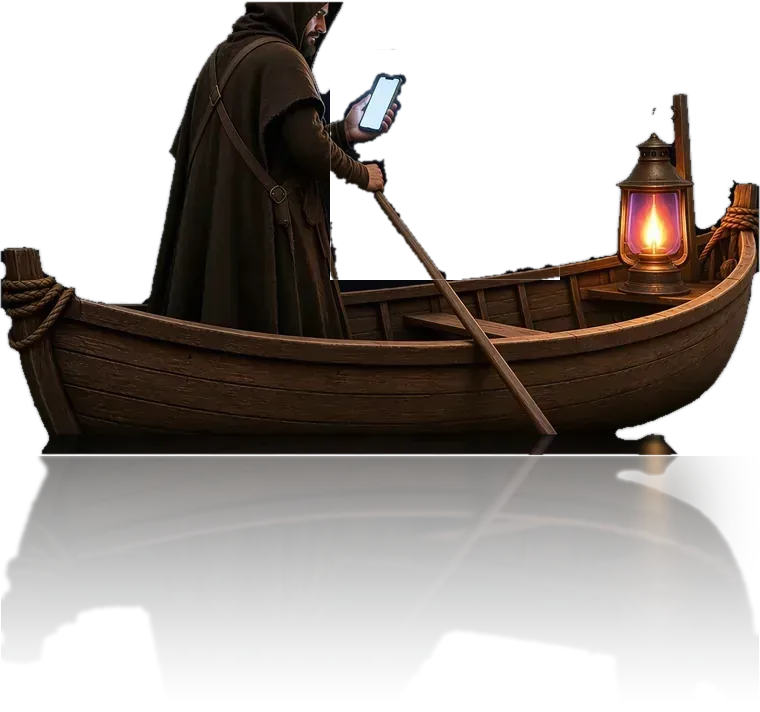
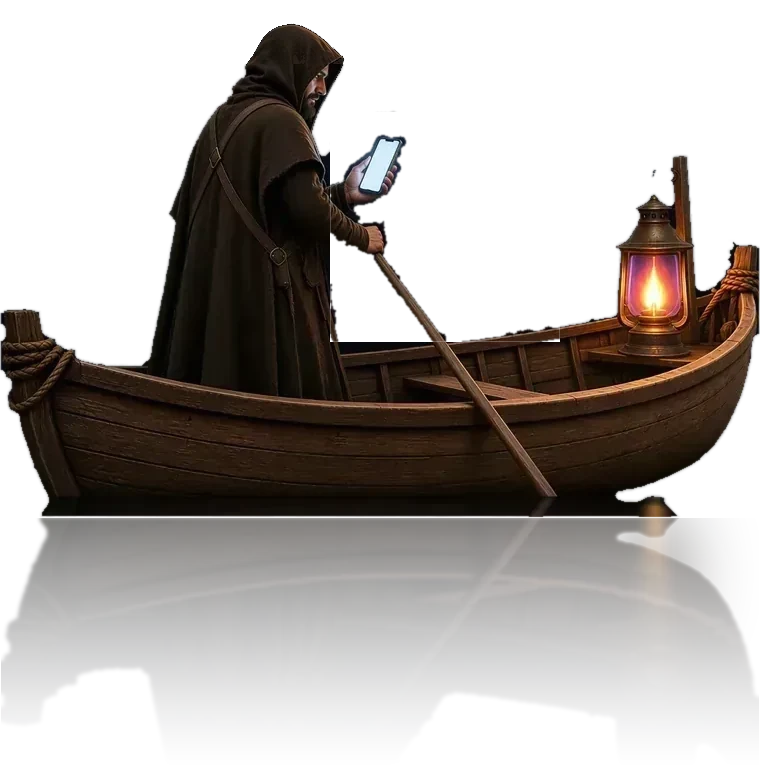
Site

diff --git a/index.html b/index.html
@@ -31,7 +31,7 @@
 <link rel="manifest" href="site.webmanifest">
 <link rel="stylesheet" href="assets/home/home.css">
 <link rel="stylesheet" href="assets/home/home-v2.css?v=20261123t1">
-<link rel="stylesheet" href="assets/home/travessia.css?v=20261123barca"><link rel="preload" as="image" href="img/cenas/prot-v.webp" imagesrcset="img/cenas/prot-v480.webp 480w, img/cenas/prot-v.webp 720w" imagesizes="57svh" media="(max-aspect-ratio: 4/5)" fetchpriority="high"><link rel="preload" as="image" href="img/cenas/prot-h.webp" media="(min-aspect-ratio: 4/5)">
+<link rel="stylesheet" href="assets/home/travessia.css?v=20261123ceu"><link rel="preload" as="image" href="img/cenas/prot-v.webp" imagesrcset="img/cenas/prot-v480.webp 480w, img/cenas/prot-v.webp 720w" imagesizes="57svh" media="(max-aspect-ratio: 4/5)" fetchpriority="high"><link rel="preload" as="image" href="img/cenas/prot-h.webp" media="(min-aspect-ratio: 4/5)">
 <script>document.documentElement.classList.add('js')</script>
 <script type="application/ld+json" data-seo="1">
 {"@context":"https://schema.org","@graph":[{"@type":["Attorney","LegalService"],"@id":"https://lucasladeia.com.br/#advogado","name":"Lucas Brito Ladeia","alternateName":"Lucas Ladeia","url":"https://lucasladeia.com.br/","image":"https://lucasladeia.com.br/og-lucas-ladeia-2026-11.jpg","logo":"https://lucasladeia.com.br/icon-512.png","description":"Advocacia em medida protetiva, criminal, família e CAC. Imperatriz-MA, com atendimento presencial e online. OAB/MA 16.091.","identifier":{"@type":"PropertyValue","propertyID":"OAB/MA","value":"16.091"},"telephone":"+55 99 98170-3994","address":{"@type":"PostalAddress","streetAddress":"Rua Coronel Manoel Bandeira, 1774, Centro","addressLocality":"Imperatriz","addressRegion":"MA","postalCode":"65900-010","addressCountry":"BR"},"areaServed":[{"@type":"City","name":"Imperatriz","containedInPlace":{"@type":"State","name":"Maranhão"}},{"@type":"Country","name":"Brasil"}],"knowsAbout":["Medida protetiva de urgência","Lei Maria da Penha","Direito penal","Direito de família","Armas de fogo e CAC"],"sameAs":["https://www.instagram.com/lucasladeiadvogado/","https://www.instagram.com/ladeiadvogadosfamilia/","https://www.instagram.com/rededeprotecaoficial/"]},{"@type":"WebSite","@id":"https://lucasladeia.com.br/#site","url":"https://lucasladeia.com.br/","name":"Rede de Proteção · Lucas Brito Ladeia","inLanguage":"pt-BR","publisher":{"@id":"https://lucasladeia.com.br/#advogado"}},{"@type":"FAQPage","@id":"https://lucasladeia.com.br/#faq","mainEntity":[{"@type":"Question","name":"O atendimento é só em Imperatriz?","acceptedAnswer":{"@type":"Answer","text":"O escritório fica em Imperatriz-MA, com atendimento presencial. Também há atendimento online para pessoas em outras cidades do Brasil, conforme a natureza do caso."}},{"@type":"Question","name":"Preciso contar o caso inteiro por escrito?","acceptedAnswer":{"@type":"Answer","text":"Não. Na primeira mensagem, basta indicar a área e o essencial. Detalhes sensíveis ficam para o atendimento, sob sigilo profissional."}},{"@type":"Question","name":"Vocês prometem resultado?","acceptedAnswer":{"@type":"Answer","text":"Não. A publicidade da advocacia é informativa. Cada caso depende dos fatos, das provas e da decisão judicial."}},{"@type":"Question","name":"Como envio uma mensagem?","acceptedAnswer":{"@type":"Answer","text":"Use o botão de conversa nesta página. Informe a área de interesse para agilizar a triagem."}}]}]}
@@ -124,7 +124,7 @@
     <div class="firmamento" aria-hidden="true"><canvas class="cosmos" width="1" height="1"></canvas><i class="cintila c1"></i><i class="cintila c2"></i><i class="meteoro"></i></div><div class="trilho"><div class="cena on" data-id="prot" data-t="Medida Protetiva" data-d="Pedido, defesa, prazos e os filhos" data-href="medida-protetiva/" data-acao="Limpar o vidro"><picture><source media="(min-aspect-ratio: 4/5)" srcset="img/cenas/prot-h.webp"><img src="img/cenas/prot-v.webp" srcset="img/cenas/prot-v480.webp 480w, img/cenas/prot-v.webp 720w" sizes="57svh" width="720" height="1280" alt="" fetchpriority="high"></picture></div><div class="cena" data-id="crim" data-t="Direito Criminal" data-d="Intimação, depoimento, acusação e prova" data-href="criminal/" data-acao="Limpar o vidro"><picture><source media="(min-aspect-ratio: 4/5)" data-srcset="img/cenas/crim-h.webp"><img data-srcset="img/cenas/crim-v480.webp 480w, img/cenas/crim-v.webp 720w" sizes="57svh" width="720" height="1280" alt="" decoding="async"></picture></div><div class="cena" data-id="fam" data-t="Casa da Família" data-d="Separação, guarda, pensão e partilha de bens" data-href="familia/" data-acao="Acender as janelas"><picture><source media="(min-aspect-ratio: 4/5)" data-srcset="img/cenas/fam-h.webp"><img data-srcset="img/cenas/fam-v480.webp 480w, img/cenas/fam-v.webp 720w" sizes="57svh" width="720" height="1280" alt="" decoding="async"></picture></div><div class="cena" data-id="con" data-t="Conexão" data-d="As emoções de quem atravessa um conflito" data-href="conexao/" data-acao="Fonte da Vida" data-link="conexao/#fonte-vida"><picture><source media="(min-aspect-ratio: 4/5)" data-srcset="img/cenas/con-h.webp"><img data-srcset="img/cenas/con-v480.webp 480w, img/cenas/con-v.webp 720w" sizes="57svh" width="720" height="1280" alt="" decoding="async"></picture></div><div class="cena" data-id="arq" data-t="Arquivo do Baú" data-d="Todos os textos guardados num só lugar" data-href="artigos/" data-acao="Puxar um livro"><picture><source media="(min-aspect-ratio: 4/5)" data-srcset="img/cenas/arq-h.webp"><img data-srcset="img/cenas/arq-v480.webp 480w, img/cenas/arq-v.webp 720w" sizes="57svh" width="720" height="1280" alt="" decoding="async"></picture></div><div class="cena" data-id="ter" data-t="Consumidor" data-d="Direitos do consumidor e do passageiro" data-href="https://consumidor.lucasladeia.com.br/" data-acao="Painel de partidas"><picture><source media="(min-aspect-ratio: 4/5)" data-srcset="img/cenas/ter-h.webp"><img data-srcset="img/cenas/ter-v480.webp 480w, img/cenas/ter-v.webp 720w" sizes="57svh" width="720" height="1280" alt="" decoding="async"></picture></div></div><div class="agua" aria-hidden="true"><i></i></div>
     <div class="lua" aria-hidden="true"><canvas width="1" height="1"></canvas></div><svg class="constelacao" viewBox="0 0 122 60" aria-hidden="true" focusable="false"><g class="cl"><line x1="8" y1="42" x2="28" y2="18" data-a="prot" data-b="crim"/><line x1="28" y1="18" x2="48" y2="38" data-a="crim" data-b="fam"/><line x1="48" y1="38" x2="70" y2="26" data-a="fam" data-b="con"/><line x1="70" y1="26" x2="92" y2="10" data-a="con" data-b="arq"/><line x1="92" y1="10" x2="114" y2="36" data-a="arq" data-b="ter"/></g><g class="est" data-id="prot" transform="translate(8 42)"><circle class="eg" r="7"/><path d="M0 -4.5 L1 -1 L4.5 0 L1 1 L0 4.5 L-1 1 L-4.5 0 L-1 -1Z"/></g><g class="est" data-id="crim" transform="translate(28 18)"><circle class="eg" r="7"/><path d="M0 -4.5 L1 -1 L4.5 0 L1 1 L0 4.5 L-1 1 L-4.5 0 L-1 -1Z"/></g><g class="est" data-id="fam" transform="translate(48 38)"><circle class="eg" r="7"/><path d="M0 -4.5 L1 -1 L4.5 0 L1 1 L0 4.5 L-1 1 L-4.5 0 L-1 -1Z"/></g><g class="est" data-id="con" transform="translate(70 26)"><circle class="eg" r="7"/><path d="M0 -4.5 L1 -1 L4.5 0 L1 1 L0 4.5 L-1 1 L-4.5 0 L-1 -1Z"/></g><g class="est" data-id="arq" transform="translate(92 10)"><circle class="eg" r="7"/><path d="M0 -4.5 L1 -1 L4.5 0 L1 1 L0 4.5 L-1 1 L-4.5 0 L-1 -1Z"/></g><g class="est" data-id="ter" transform="translate(114 36)"><circle class="eg" r="7"/><path d="M0 -4.5 L1 -1 L4.5 0 L1 1 L0 4.5 L-1 1 L-4.5 0 L-1 -1Z"/></g></svg>
     <div class="lua-agua" aria-hidden="true"><u></u><i></i><b></b></div>
-    <div class="barca real" aria-hidden="true"><svg viewBox="0 0 921 864" focusable="false"><defs><radialGradient id="gFacho" cx=".2" cy=".5" r=".8"><stop offset="0" stop-color="#FFE2A0" stop-opacity=".5"/><stop offset=".45" stop-color="#F6C878" stop-opacity=".16"/><stop offset="1" stop-color="#F6C878" stop-opacity="0"/></radialGradient><radialGradient id="gProa"><stop offset="0" stop-color="#FFD58A" stop-opacity=".75"/><stop offset="1" stop-color="#FFD58A" stop-opacity="0"/></radialGradient><radialGradient id="gLcH" cx=".5" cy="0" r="1"><stop offset="0" stop-color="#FFD98F" stop-opacity=".85"/><stop offset=".2" stop-color="#FFC765" stop-opacity=".5"/><stop offset=".36" stop-color="#F5A524" stop-opacity=".16"/><stop offset=".5" stop-color="#F5A524" stop-opacity="0"/></radialGradient><radialGradient id="gLcN" cx=".5" cy="0" r="1"><stop offset="0" stop-color="#FFF6DC" stop-opacity="1"/><stop offset=".22" stop-color="#FFE3A3" stop-opacity=".75"/><stop offset=".4" stop-color="#FFC765" stop-opacity=".25"/><stop offset=".5" stop-color="#FFC765" stop-opacity="0"/></radialGradient><radialGradient id="gHaloV"><stop offset=".45" stop-color="#FFC98A" stop-opacity="0"/><stop offset=".7" stop-color="#FFC98A" stop-opacity=".12"/><stop offset="1" stop-color="#FFB45A" stop-opacity="0"/></radialGradient><radialGradient id="gNucleo"><stop offset="0" stop-color="#FFFFF6" stop-opacity="1"/><stop offset=".35" stop-color="#FFF1C2" stop-opacity=".9"/><stop offset=".7" stop-color="#FFC765" stop-opacity=".35"/><stop offset="1" stop-color="#FFB547" stop-opacity="0"/></radialGradient></defs><ellipse class="facho" cx="1220" cy="560" rx="560" ry="120" fill="url(#gFacho)"/><ellipse class="cone" cx="800" cy="556" rx="400" ry="44" fill="url(#gProa)"/><g class="balanco"><image class="rl" href="img/real/barca3-120.webp?v=20261123cell" data-src="img/real/barca3-760.webp?v=20261123cell" width="922" height="864"/><circle class="halo-v" cx="791" cy="327" r="190" fill="url(#gHaloV)"/><circle class="chama" cx="791" cy="331" r="135" fill="url(#gProa)"/><ellipse class="nucleo" cx="791" cy="333" rx="26" ry="38" fill="url(#gNucleo)"/></g><g class="luz-con"><rect class="lc-h" x="-320" y="546" width="640" height="2000" fill="url(#gLcH)"/><rect class="lc-n" x="-120" y="546" width="240" height="1900" fill="url(#gLcN)"/><g class="lc-b"><ellipse cx="-122" cy="873" rx="44" ry="6.7" style="--d:1.2s"/><ellipse cx="-56" cy="946" rx="40" ry="7.3" style="--d:1.2s"/><ellipse cx="8" cy="968" rx="46" ry="7.5" style="--d:0.2s"/><ellipse cx="-35" cy="1059" rx="70" ry="8.3" style="--d:0.1s"/><ellipse cx="130" cy="1142" rx="75" ry="9.0" style="--d:0.4s"/><ellipse cx="-7" cy="581" rx="19" ry="4.2" style="--d:0.1s"/><ellipse cx="0" cy="717" rx="30" ry="5.3" style="--d:1.1s"/><ellipse cx="20" cy="1075" rx="64" ry="8.4" style="--d:1.5s"/><ellipse cx="-35" cy="899" rx="40" ry="6.9" style="--d:2.4s"/><ellipse cx="-87" cy="1148" rx="86" ry="9.0" style="--d:1.7s"/><ellipse cx="5" cy="794" rx="26" ry="6.0" style="--d:1.8s"/><ellipse cx="44" cy="844" rx="53" ry="6.4" style="--d:0.9s"/><ellipse cx="2" cy="1130" rx="54" ry="8.9" style="--d:2.2s"/><ellipse cx="-2" cy="883" rx="61" ry="6.8" style="--d:1.0s"/><ellipse cx="-32" cy="633" rx="19" ry="4.6" style="--d:0.2s"/><ellipse cx="-62" cy="805" rx="51" ry="6.1" style="--d:1.8s"/><ellipse cx="0" cy="667" rx="18" ry="4.9" style="--d:1.9s"/><ellipse cx="17" cy="708" rx="31" ry="5.3" style="--d:1.1s"/><ellipse cx="-2" cy="717" rx="34" ry="5.3" style="--d:0.3s"/><ellipse cx="-29" cy="855" rx="35" ry="6.5" style="--d:0.6s"/><ellipse cx="25" cy="1137" rx="87" ry="8.9" style="--d:0.5s"/><ellipse cx="-43" cy="840" rx="52" ry="6.4" style="--d:1.5s"/><ellipse cx="21" cy="654" rx="21" ry="4.8" style="--d:1.9s"/><ellipse cx="-2" cy="803" rx="33" ry="6.1" style="--d:0.2s"/><ellipse cx="-19" cy="646" rx="26" ry="4.7" style="--d:0.9s"/><ellipse cx="-21" cy="873" rx="59" ry="6.7" style="--d:1.2s"/><ellipse cx="28" cy="939" rx="38" ry="7.2" style="--d:2.2s"/><ellipse cx="-38" cy="1063" rx="51" ry="8.3" style="--d:0.5s"/><ellipse cx="47" cy="1024" rx="77" ry="8.0" style="--d:2.1s"/><ellipse cx="-16" cy="954" rx="49" ry="7.4" style="--d:0.2s"/><ellipse cx="17" cy="604" rx="24" ry="4.4" style="--d:0.6s"/><ellipse cx="-14" cy="1066" rx="66" ry="8.3" style="--d:0.7s"/><ellipse cx="-3" cy="707" rx="24" ry="5.3" style="--d:1.3s"/><ellipse cx="-31" cy="1080" rx="69" ry="8.4" style="--d:0.7s"/><ellipse cx="5" cy="1111" rx="56" ry="8.7" style="--d:1.1s"/><ellipse cx="5" cy="623" rx="17" ry="4.5" style="--d:0.9s"/><ellipse cx="42" cy="938" rx="65" ry="7.2" style="--d:2.4s"/><ellipse cx="50" cy="982" rx="62" ry="7.6" style="--d:1.4s"/><ellipse cx="6" cy="683" rx="36" ry="5.0" style="--d:1.7s"/><ellipse cx="4" cy="1133" rx="45" ry="8.9" style="--d:1.5s"/><ellipse cx="-6" cy="889" rx="63" ry="6.8" style="--d:0.2s"/><ellipse cx="-56" cy="924" rx="58" ry="7.1" style="--d:2.2s"/></g></g></svg></div>
+    <div class="barca real" aria-hidden="true"><svg viewBox="0 0 921 864" focusable="false"><defs><radialGradient id="gFacho" cx=".2" cy=".5" r=".8"><stop offset="0" stop-color="#FFE2A0" stop-opacity=".5"/><stop offset=".45" stop-color="#F6C878" stop-opacity=".16"/><stop offset="1" stop-color="#F6C878" stop-opacity="0"/></radialGradient><radialGradient id="gProa"><stop offset="0" stop-color="#FFD58A" stop-opacity=".75"/><stop offset="1" stop-color="#FFD58A" stop-opacity="0"/></radialGradient><radialGradient id="gLcH" cx=".5" cy="0" r="1"><stop offset="0" stop-color="#FFD98F" stop-opacity=".85"/><stop offset=".2" stop-color="#FFC765" stop-opacity=".5"/><stop offset=".36" stop-color="#F5A524" stop-opacity=".16"/><stop offset=".5" stop-color="#F5A524" stop-opacity="0"/></radialGradient><radialGradient id="gLcN" cx=".5" cy="0" r="1"><stop offset="0" stop-color="#FFF6DC" stop-opacity="1"/><stop offset=".22" stop-color="#FFE3A3" stop-opacity=".75"/><stop offset=".4" stop-color="#FFC765" stop-opacity=".25"/><stop offset=".5" stop-color="#FFC765" stop-opacity="0"/></radialGradient><radialGradient id="gHaloV"><stop offset=".45" stop-color="#FFC98A" stop-opacity="0"/><stop offset=".7" stop-color="#FFC98A" stop-opacity=".12"/><stop offset="1" stop-color="#FFB45A" stop-opacity="0"/></radialGradient><radialGradient id="gNucleo"><stop offset="0" stop-color="#FFFFF6" stop-opacity="1"/><stop offset=".35" stop-color="#FFF1C2" stop-opacity=".9"/><stop offset=".7" stop-color="#FFC765" stop-opacity=".35"/><stop offset="1" stop-color="#FFB547" stop-opacity="0"/></radialGradient></defs><ellipse class="facho" cx="1220" cy="560" rx="560" ry="120" fill="url(#gFacho)"/><ellipse class="cone" cx="800" cy="556" rx="400" ry="44" fill="url(#gProa)"/><g class="balanco"><image class="rl" href="img/real/barca3-120.webp?v=20261123cap" data-src="img/real/barca3-760.webp?v=20261123cap" y="-75" width="922" height="939"/><circle class="halo-v" cx="791" cy="327" r="190" fill="url(#gHaloV)"/><circle class="chama" cx="791" cy="331" r="135" fill="url(#gProa)"/><ellipse class="nucleo" cx="791" cy="333" rx="26" ry="38" fill="url(#gNucleo)"/></g><g class="luz-con"><rect class="lc-h" x="-320" y="546" width="640" height="2000" fill="url(#gLcH)"/><rect class="lc-n" x="-120" y="546" width="240" height="1900" fill="url(#gLcN)"/><g class="lc-b"><ellipse cx="-122" cy="873" rx="44" ry="6.7" style="--d:1.2s"/><ellipse cx="-56" cy="946" rx="40" ry="7.3" style="--d:1.2s"/><ellipse cx="8" cy="968" rx="46" ry="7.5" style="--d:0.2s"/><ellipse cx="-35" cy="1059" rx="70" ry="8.3" style="--d:0.1s"/><ellipse cx="130" cy="1142" rx="75" ry="9.0" style="--d:0.4s"/><ellipse cx="-7" cy="581" rx="19" ry="4.2" style="--d:0.1s"/><ellipse cx="0" cy="717" rx="30" ry="5.3" style="--d:1.1s"/><ellipse cx="20" cy="1075" rx="64" ry="8.4" style="--d:1.5s"/><ellipse cx="-35" cy="899" rx="40" ry="6.9" style="--d:2.4s"/><ellipse cx="-87" cy="1148" rx="86" ry="9.0" style="--d:1.7s"/><ellipse cx="5" cy="794" rx="26" ry="6.0" style="--d:1.8s"/><ellipse cx="44" cy="844" rx="53" ry="6.4" style="--d:0.9s"/><ellipse cx="2" cy="1130" rx="54" ry="8.9" style="--d:2.2s"/><ellipse cx="-2" cy="883" rx="61" ry="6.8" style="--d:1.0s"/><ellipse cx="-32" cy="633" rx="19" ry="4.6" style="--d:0.2s"/><ellipse cx="-62" cy="805" rx="51" ry="6.1" style="--d:1.8s"/><ellipse cx="0" cy="667" rx="18" ry="4.9" style="--d:1.9s"/><ellipse cx="17" cy="708" rx="31" ry="5.3" style="--d:1.1s"/><ellipse cx="-2" cy="717" rx="34" ry="5.3" style="--d:0.3s"/><ellipse cx="-29" cy="855" rx="35" ry="6.5" style="--d:0.6s"/><ellipse cx="25" cy="1137" rx="87" ry="8.9" style="--d:0.5s"/><ellipse cx="-43" cy="840" rx="52" ry="6.4" style="--d:1.5s"/><ellipse cx="21" cy="654" rx="21" ry="4.8" style="--d:1.9s"/><ellipse cx="-2" cy="803" rx="33" ry="6.1" style="--d:0.2s"/><ellipse cx="-19" cy="646" rx="26" ry="4.7" style="--d:0.9s"/><ellipse cx="-21" cy="873" rx="59" ry="6.7" style="--d:1.2s"/><ellipse cx="28" cy="939" rx="38" ry="7.2" style="--d:2.2s"/><ellipse cx="-38" cy="1063" rx="51" ry="8.3" style="--d:0.5s"/><ellipse cx="47" cy="1024" rx="77" ry="8.0" style="--d:2.1s"/><ellipse cx="-16" cy="954" rx="49" ry="7.4" style="--d:0.2s"/><ellipse cx="17" cy="604" rx="24" ry="4.4" style="--d:0.6s"/><ellipse cx="-14" cy="1066" rx="66" ry="8.3" style="--d:0.7s"/><ellipse cx="-3" cy="707" rx="24" ry="5.3" style="--d:1.3s"/><ellipse cx="-31" cy="1080" rx="69" ry="8.4" style="--d:0.7s"/><ellipse cx="5" cy="1111" rx="56" ry="8.7" style="--d:1.1s"/><ellipse cx="5" cy="623" rx="17" ry="4.5" style="--d:0.9s"/><ellipse cx="42" cy="938" rx="65" ry="7.2" style="--d:2.4s"/><ellipse cx="50" cy="982" rx="62" ry="7.6" style="--d:1.4s"/><ellipse cx="6" cy="683" rx="36" ry="5.0" style="--d:1.7s"/><ellipse cx="4" cy="1133" rx="45" ry="8.9" style="--d:1.5s"/><ellipse cx="-6" cy="889" rx="63" ry="6.8" style="--d:0.2s"/><ellipse cx="-56" cy="924" rx="58" ry="7.1" style="--d:2.2s"/></g></g></svg></div>
     <div class="clarao" aria-hidden="true"></div>
     <div class="hud">
       <nav class="lugares" aria-label="Paradas do rio"><button type="button" data-go="prot" aria-pressed="true"><i aria-hidden="true"></i><span>Protetiva</span></button><button type="button" data-go="crim" aria-pressed="false"><i aria-hidden="true"></i><span>Criminal</span></button><button type="button" data-go="fam" aria-pressed="false"><i aria-hidden="true"></i><span>Família</span></button><button type="button" data-go="con" aria-pressed="false"><i aria-hidden="true"></i><span>Conexão</span></button><button type="button" data-go="arq" aria-pressed="false"><i aria-hidden="true"></i><span>Arquivo</span></button><button type="button" data-go="ter" aria-pressed="false"><i aria-hidden="true"></i><span>Consumidor</span></button></nav>
@@ -370,7 +370,7 @@
   </div>
 </footer>
 <script src="assets/home/home-v2.js?v=20261110acesa" defer></script>
-<script src="assets/home/travessia.js?v=20261123cell" defer></script>
+<script src="assets/home/travessia.js?v=20261123ceu" defer></script>
 <script src="assets/busca.js" defer></script>
 </body>
 </html>

diff --git a/artigos/artigos.css b/artigos/artigos.css
@@ -368,13 +368,14 @@ body.artigo { background: var(--bg); }
 
 
 /* Cartão prático para o leitor salvar no celular */
-.aba-celular{margin:2.4rem 0 0;display:flex;justify-content:center}
-.aba-celular-frame{position:relative;width:min(22.75rem,100%);padding:1.15rem 1.15rem 1.05rem;border-radius:1.7rem;background:linear-gradient(180deg,rgba(32,24,16,.94),rgba(12,9,7,.98));border:1px solid rgba(231,213,181,.22);box-shadow:0 0 0 7px rgba(10,8,6,.55),0 22px 44px rgba(0,0,0,.48),inset 0 1px 0 rgba(231,213,181,.12)}
-.aba-celular-frame::before{content:"";display:block;width:3.8rem;height:.26rem;margin:0 auto .85rem;border-radius:999px;background:rgba(231,213,181,.22)}
-.aba-celular-kicker{margin:0 0 .3rem;text-align:center;font:600 .68rem/1 var(--font-body);letter-spacing:.2em;text-transform:uppercase;color:var(--champagne)}
-.aba-celular-title{margin:0 0 .95rem;text-align:center;font-family:var(--font-display);font-weight:500;font-size:1.22rem;line-height:1.2;color:var(--cream);text-wrap:balance}
+.aba-celular{margin:2.6rem 0 0;display:flex;justify-content:center}
+.aba-celular-frame{position:relative;width:min(21.5rem,100%);padding:2.35rem 1.15rem 1.9rem;border-radius:2.6rem;background:radial-gradient(120% 70% at 50% 0%,#2B3847 0%,#1C2632 46%,#141B24 100%);border:1px solid rgba(255,255,255,.08);box-shadow:0 0 0 1px #0B0E12,0 0 0 7px #3A3F46,0 0 0 8px #6E737A,0 0 0 9px #1D2025,0 28px 56px rgba(0,0,0,.6),0 0 46px rgba(120,160,205,.12),inset 0 1px 0 rgba(255,255,255,.07)}
+.aba-celular-frame::before{content:"";position:absolute;top:.7rem;left:50%;width:5.6rem;height:1.45rem;transform:translateX(-50%);border-radius:999px;background:#05070A;box-shadow:inset 0 0 0 1px rgba(255,255,255,.04)}
+.aba-celular-frame::after{content:"";position:absolute;bottom:.6rem;left:50%;width:7.2rem;height:.3rem;transform:translateX(-50%);border-radius:999px;background:rgba(235,240,247,.55)}
+.aba-celular-kicker{margin:.35rem 0 .35rem;text-align:center;font:600 .68rem/1 var(--font-body);letter-spacing:.2em;text-transform:uppercase;color:#AFC4DA}
+.aba-celular-title{margin:0 0 .95rem;text-align:center;font-family:var(--font-display);font-weight:500;font-size:1.22rem;line-height:1.2;color:#F4F7FB;text-wrap:balance}
 .aba-celular-passos{margin:0;padding:0;list-style:none;counter-reset:passo}
-.aba-celular-passos li{position:relative;margin:0;padding:.72rem 0 .72rem 2.25rem;border-top:1px solid rgba(231,213,181,.1);color:var(--text);font-size:.98rem;line-height:1.45}
-.aba-celular-passos li::before{counter-increment:passo;content:counter(passo);position:absolute;left:0;top:.72rem;width:1.5rem;height:1.5rem;border-radius:50%;border:1px solid rgba(201,169,106,.45);color:var(--gold);font:600 .72rem/1.5rem var(--font-body);text-align:center}
-.aba-celular-foot{margin:.85rem 0 0;text-align:center;font-size:.72rem;letter-spacing:.06em;color:var(--muted)}
+.aba-celular-passos li{position:relative;margin:0;padding:.72rem 0 .72rem 2.25rem;border-top:1px solid rgba(200,215,232,.12);color:rgba(236,241,247,.92);font-size:.98rem;line-height:1.45}
+.aba-celular-passos li::before{counter-increment:passo;content:counter(passo);position:absolute;left:0;top:.72rem;width:1.5rem;height:1.5rem;border-radius:50%;background:rgba(160,190,222,.14);border:1px solid rgba(175,200,226,.4);color:#DCE7F3;font:600 .72rem/1.5rem var(--font-body);text-align:center}
+.aba-celular-foot{margin:.85rem 0 0;text-align:center;font-size:.72rem;letter-spacing:.06em;color:rgba(200,214,230,.7)}
 @media print{.aba-celular{break-inside:avoid}}

diff --git a/assets/jogos/mar.js b/assets/jogos/mar.js
@@ -1,5 +1,5 @@
 import {palco} from './palco.js?v=20261123j3';
-var V='20261123m1',IW=1280,IH=720;
+var V='20261123m2',IW=1280,IH=720;
 var AREA={'criminal':'Criminal','familia':'Família','medida-protetiva':'Medida protetiva','cac':'CAC','mundo-em-disputa':'Mundo em Disputa'};
 var BAUS=[[300,664],[515,640],[700,690],[880,652],[1085,694]];
 var NAUS=[
@@ -56,13 +56,13 @@ export default function(){
   carta.classList.toggle('alto',o.tipo==='bau');carta.classList.add('on')}
  function vai(o,x,y){dv.tx=x;dv.ty=y;limita();dv.alvo=o;p.dica.style.opacity='0';if(calmo){dv.x=dv.tx;dv.y=dv.ty}}
  NAUS.forEach(function(n){var b=document.createElement('button');b.type='button';b.className='mr-nau';b.setAttribute('aria-label','Naufrágio: '+n.nome);b.innerHTML='<i></i>';obj.appendChild(b);
-  var nm=document.createElement('p');nm.className='mr-nome';nm.setAttribute('aria-hidden','true');nm.textContent=n.nome;obj.appendChild(nm);
+  var nm=document.createElement('button');nm.type='button';nm.className='mr-nome';nm.setAttribute('aria-label','Abrir: '+n.nome);nm.textContent=n.nome;obj.appendChild(nm);
   var o={tipo:'nau',n:n,el:b,nm:nm,x:n.x,y:n.y,nx:n.nx,ny:n.ny};naus.push(o);
-  b.addEventListener('click',function(e){e.stopPropagation();vai(o,n.x+(n.x<640?140:-140),n.y-40)})});
+  function abreNau(e){e.stopPropagation();vai(o,n.x+(n.x<640?140:-140),n.y-40);mostra(o)}b.addEventListener('click',abreNau);nm.addEventListener('click',abreNau)});
  function poeBaus(lista){lista.slice(0,BAUS.length).forEach(function(a,i){var b=document.createElement('button');b.type='button';b.className='mr-bau';b.setAttribute('aria-label','Abrir o baú: '+a.title);
   b.innerHTML='<img class="f" alt="" decoding="async"><img class="a" alt="" decoding="async"><i></i>';b.querySelector('.f').src=im('bau-f.webp');b.querySelector('.a').src=im('bau-a.webp');obj.appendChild(b);
   var o={tipo:'bau',a:a,el:b,x:BAUS[i][0],y:BAUS[i][1]};baus.push(o);
-  b.addEventListener('click',function(e){e.stopPropagation();if(aberto===o){fechaCarta();return}vai(o,o.x-(o.x>dv.x?1:-1)*dv.w*.66,o.y-80)})});tam()}
+  b.addEventListener('click',function(e){e.stopPropagation();if(aberto===o){fechaCarta();return}vai(o,o.x-(o.x>dv.x?1:-1)*dv.w*.66,o.y-80);mostra(o)})});tam()}
  fetch(u('../../artigos/artigos.json')).then(function(r){return r.json()}).then(function(j){var m={};(j||[]).forEach(function(a){if(a&&a.slug)m[a.slug]=a});poeBaus(QUENTES.filter(function(q){return m[q[0]]}).map(function(q){var a=Object.assign({},m[q[0]]);a.title=q[1];return a}))}).catch(function(){});
  tam();addEventListener('resize',tam);p.fim(function(){vivo=false;cancelAnimationFrame(raf);removeEventListener('resize',tam)});
  if(calmo){dv.x=dv.tx;dv.y=dv.ty}

diff --git a/assets/home/travessia.js b/assets/home/travessia.js
@@ -28,7 +28,7 @@ sec.addEventListener('touchstart',function(e){if(e.target.closest('.hud,a,button
 sec.addEventListener('touchend',function(e){if(x0==null)return;var t=e.changedTouches[0],dx=t.clientX-x0,dy=t.clientY-y0;x0=null;if(Math.abs(dx)>50&&Math.abs(dx)>Math.abs(dy)*1.4)vai(Math.max(0,Math.min(cenas.length-1,idx+(dx<0?1:-1))))},{passive:true});
 sec.addEventListener('keydown',function(e){if(e.target.closest('input,textarea'))return;if(e.key==='ArrowRight')vai(Math.min(cenas.length-1,idx+1));else if(e.key==='ArrowLeft')vai(Math.max(0,idx-1))});
 var JB=(d.currentScript&&d.currentScript.src)||location.href,JG={},jogos={prot:'crim',crim:1,fam:1,arq:1,ter:1};
-function motor(id){if(typeof jogos[id]==='string')id=jogos[id];if(!JG[id])JG[id]=import(new URL('../jogos/'+id+'.js?v=20261123j3',JB).href);return JG[id]}
+function motor(id){if(typeof jogos[id]==='string')id=jogos[id];if(!JG[id])JG[id]=import(new URL('../jogos/'+id+'.js?v=20261123j4',JB).href);return JG[id]}
 function joga(e){var c=cena(idx);if(sec.classList.contains('viajando'))return;if(e)e.preventDefault();if(c.dataset.link){location.href=c.dataset.link;return}motor(c.dataset.id).then(function(m){m.default(c.dataset.id)}).catch(function(){})}
 brincar.addEventListener('click',joga);
 sec.querySelector('.mergulhar').addEventListener('click',function(){motor('mar').then(function(m){m.default()}).catch(function(){})});
@@ -39,7 +39,7 @@ function astro(){var cs=sec.querySelector('.constelacao');if(!cs)return;[].forEa
 function estrela(id){if(ceuV.indexOf(id)>=0)return;ceuV.push(id);set(CK,JSON.stringify(ceuV));astro();var e=sec.querySelector('.constelacao .est[data-id="'+id+'"]');if(e){e.classList.add('nasce');setTimeout(function(){e.classList.remove('nasce')},2400)}}
 var luaEl=sec.querySelector('.lua'),luaCv=luaEl.querySelector('canvas'),luaImg=null,luaR=0;
 function mede(){var W=sec.clientWidth,H=sec.clientHeight,sr=sec.getBoundingClientRect(),hb=topo?Math.max(0,topo.getBoundingClientRect().bottom-sr.top):0,r,x,y;
- if(W<900){r=Math.max(30,Math.min(42,W*.1));x=W-r-Math.max(14,W*.05);y=hb+r+16}
+ if(W<900){r=Math.max(24,Math.min(32,W*.075));x=W-r-Math.max(16,W*.06);y=Math.max(hb+r+8,H*.11+r*.2)}
  else{r=Math.max(46,Math.min(70,H*.07));x=W*.78;y=hb+r+44}
  sec.style.setProperty('--lx',Math.round(x)+'px');sec.style.setProperty('--ly',Math.round(y)+'px');sec.style.setProperty('--lr',Math.round(r)+'px');luaR=r;pintaLua();
  sec.style.setProperty('--hud',hud.offsetHeight+'px');desenha()}

diff --git a/assets/jogos/mar.css b/assets/jogos/mar.css
@@ -39,3 +39,5 @@
 .mr-acoes button:hover,.mr-acoes button:focus-visible{color:#fff;outline:none;text-decoration:underline;text-underline-offset:4px}
 @keyframes mr-pulso{0%,100%{transform:scale(1);opacity:.75}50%{transform:scale(1.45);opacity:1}}
 @media (prefers-reduced-motion:reduce){.mr-bau img,.mr-nome,.mr-carta,.mr-bau::after{transition:none}.mr-bau i,.mr-nau i,.mr-bau.perto i{animation:none}}
+
+/* tesouros sempre visiveis e tocaveis */.mr-bau img{filter:brightness(calc(.95 + var(--luz)*.35)) saturate(.85)}.mr-bau i{width:10px;height:10px;margin:-5px;opacity:.9;animation:mr-pulso 2.6s ease-in-out infinite}.mr-bau::before{content:'';position:absolute;left:-14%;right:-14%;top:-10%;bottom:-6%;border-radius:50%;background:radial-gradient(ellipse at 50% 60%,rgba(255,205,130,.32),transparent 68%);animation:mr-pulso 3.4s ease-in-out infinite;pointer-events:none}.mr-nau{width:5rem;height:5rem;margin:-2.5rem 0 0 -2.5rem;border:1px solid rgba(200,235,255,.45);background:radial-gradient(circle,rgba(170,220,255,.18),transparent 70%)}.mr-nau i{width:12px;height:12px;margin:-6px}.mr-nome{appearance:none;border:1px solid rgba(200,235,255,.4);background:rgba(3,16,26,.55);padding:.6rem .9rem;border-radius:999px;opacity:.92;filter:none;pointer-events:auto;cursor:pointer;z-index:4;font-size:clamp(.78rem,3.2vw,1.1rem);letter-spacing:.22em}.mr-nome.perto{opacity:1;letter-spacing:.24em;background:rgba(3,16,26,.75)}.mr-nome:focus-visible{outline:1.5px solid #EAF6FF;outline-offset:3px}

diff --git a/artigos/a-camera-registrou-o-fato-e-o-estabelecimento-nao-entrega-as-imagens.html b/artigos/a-camera-registrou-o-fato-e-o-estabelecimento-nao-entrega-as-imagens.html
@@ -12,7 +12,7 @@
 <link rel="icon" href="../favicon-32.png" sizes="32x32" type="image/png">
 <link rel="apple-touch-icon" href="../apple-touch-icon.png">
 <link rel="manifest" href="../site.webmanifest">
-<link rel="stylesheet" href="artigos.css?v=20261123aba">
+<link rel="stylesheet" href="artigos.css?v=20261123fone">
 <title>A câmera registrou o fato, mas o estabelecimento não quer entregar as imagens. O que fazer? · Artigos · Lucas Brito Ladeia, OAB/MA 16.091</title>
 <meta name="description" content="Lojas, prédios e portarias apagam imagens em poucos dias. Veja como pedir a preservação por escrito e o que fazer quando a entrega é recusada.">
 <meta name="author" content="Lucas Brito Ladeia, OAB/MA 16.091">

diff --git a/artigos/a-conversa-esta-no-celular-de-outra-pessoa-posso-pedir-a-preservacao.html b/artigos/a-conversa-esta-no-celular-de-outra-pessoa-posso-pedir-a-preservacao.html
@@ -12,7 +12,7 @@
 <link rel="icon" href="../favicon-32.png" sizes="32x32" type="image/png">
 <link rel="apple-touch-icon" href="../apple-touch-icon.png">
 <link rel="manifest" href="../site.webmanifest">
-<link rel="stylesheet" href="artigos.css?v=20261123aba">
+<link rel="stylesheet" href="artigos.css?v=20261123fone">
 <title>A conversa está no celular de outra pessoa. Posso pedir a preservação? · Artigos · Lucas Brito Ladeia, OAB/MA 16.091</title>
 <meta name="description" content="Quando o que importa está no aparelho de outra pessoa, o caminho lícito é pedir a preservação — não abrir, não pedir senha e não invadir o telefone alheio.">
 <meta name="author" content="Lucas Brito Ladeia, OAB/MA 16.091">

diff --git a/artigos/a-mensagem-apagou-no-meu-celular-da-para-recuperar.html b/artigos/a-mensagem-apagou-no-meu-celular-da-para-recuperar.html
@@ -12,7 +12,7 @@
 <link rel="icon" href="../favicon-32.png" sizes="32x32" type="image/png">
 <link rel="apple-touch-icon" href="../apple-touch-icon.png">
 <link rel="manifest" href="../site.webmanifest">
-<link rel="stylesheet" href="artigos.css?v=20261123aba">
+<link rel="stylesheet" href="artigos.css?v=20261123fone">
 <title>A mensagem apagou no meu celular. Dá para recuperar antes que suma de vez? · Artigos · Lucas Brito Ladeia, OAB/MA 16.091</title>
 <meta name="description" content="Quando o texto some do seu aparelho, ainda pode restar backup, notificação ou cópia. Veja o que preservar — e o que não mexer — antes que desapareça.">
 <meta name="author" content="Lucas Brito Ladeia, OAB/MA 16.091">

diff --git a/artigos/nao-havia-cameras-no-local-como-demonstrar-onde-eu-estava.html b/artigos/nao-havia-cameras-no-local-como-demonstrar-onde-eu-estava.html
@@ -12,7 +12,7 @@
 <link rel="icon" href="../favicon-32.png" sizes="32x32" type="image/png">
 <link rel="apple-touch-icon" href="../apple-touch-icon.png">
 <link rel="manifest" href="../site.webmanifest">
-<link rel="stylesheet" href="artigos.css?v=20261123aba">
+<link rel="stylesheet" href="artigos.css?v=20261123fone">
 <title>Não havia câmeras no local. Como demonstrar onde eu estava? · Artigos · Lucas Brito Ladeia, OAB/MA 16.091</title>
 <meta name="description" content="Sem filme no local, ainda é possível reconstruir a linha do tempo com deslocamentos, compras, portaria e testemunhas — e conferir se alguma câmera existe por perto.">
 <meta name="author" content="Lucas Brito Ladeia, OAB/MA 16.091">

diff --git a/artigos/o-dano-ja-aconteceu-o-que-documentar-para-pedir-indenizacao.html b/artigos/o-dano-ja-aconteceu-o-que-documentar-para-pedir-indenizacao.html
@@ -12,7 +12,7 @@
 <link rel="icon" href="../favicon-32.png" sizes="32x32" type="image/png">
 <link rel="apple-touch-icon" href="../apple-touch-icon.png">
 <link rel="manifest" href="../site.webmanifest">
-<link rel="stylesheet" href="artigos.css?v=20261123aba">
+<link rel="stylesheet" href="artigos.css?v=20261123fone">
 <title>O dano já aconteceu. O que documentar para pedir indenização? · Artigos · Lucas Brito Ladeia, OAB/MA 16.091</title>
 <meta name="description" content="Quando o prejuízo material, moral ou à imagem já ocorreu, o pedido começa pelo que se consegue documentar agora: recibos, publicações, cronologia e nexo.">
 <meta name="author" content="Lucas Brito Ladeia, OAB/MA 16.091">

diff --git a/artigos/meu-audio-foi-cortado-como-demonstrar-o-antes-e-o-depois.html b/artigos/meu-audio-foi-cortado-como-demonstrar-o-antes-e-o-depois.html
@@ -12,7 +12,7 @@
 <link rel="icon" href="../favicon-32.png" sizes="32x32" type="image/png">
 <link rel="apple-touch-icon" href="../apple-touch-icon.png">
 <link rel="manifest" href="../site.webmanifest">
-<link rel="stylesheet" href="artigos.css?v=20261123aba">
+<link rel="stylesheet" href="artigos.css?v=20261123fone">
 <title>Meu áudio foi cortado. Como demonstrar o que veio antes e depois? · Artigos · Lucas Brito Ladeia, OAB/MA 16.091</title>
 <meta name="description" content="Um trecho isolado pode inverter o sentido de um áudio. Veja como guardar o recorte, localizar o arquivo inteiro e demonstrar o que veio antes e depois.">
 <meta name="author" content="Lucas Brito Ladeia, OAB/MA 16.091">

diff --git a/artigos/fui-acusado-hoje-o-que-preservar-nas-primeiras-24-horas.html b/artigos/fui-acusado-hoje-o-que-preservar-nas-primeiras-24-horas.html
@@ -12,7 +12,7 @@
 <link rel="icon" href="../favicon-32.png" sizes="32x32" type="image/png">
 <link rel="apple-touch-icon" href="../apple-touch-icon.png">
 <link rel="manifest" href="../site.webmanifest">
-<link rel="stylesheet" href="artigos.css?v=20261123aba">
+<link rel="stylesheet" href="artigos.css?v=20261123fone">
 <title>Fui acusado hoje. O que preservar nas primeiras 24 horas? · Artigos · Lucas Brito Ladeia, OAB/MA 16.091</title>
 <meta name="description" content="Nas primeiras horas depois de uma acusação, o impulso de reagir pode destruir prova. Um checklist do que guardar — e do que não tocar — nesse intervalo.">
 <meta name="author" content="Lucas Brito Ladeia, OAB/MA 16.091">
